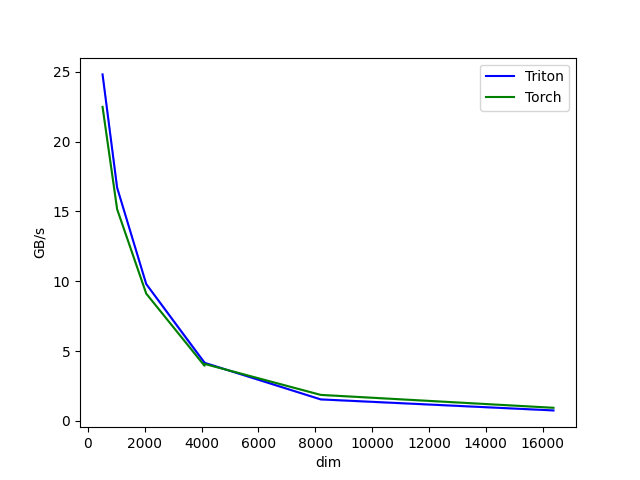
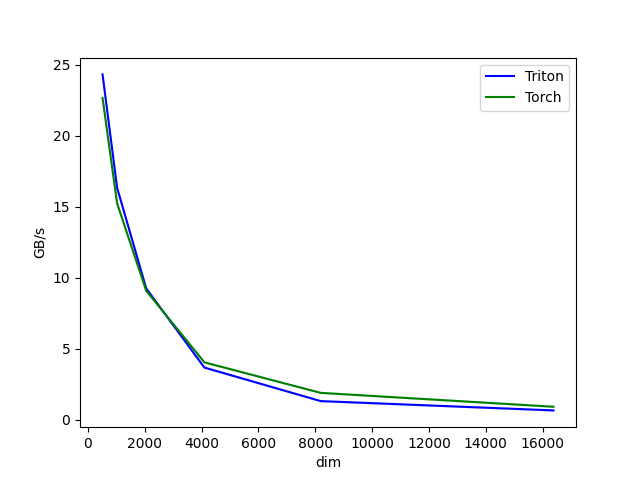
forward backward completed

diff --git a/SwiGLU.py b/SwiGLU.py
@@ -131,10 +131,11 @@ def _swiglu_forward(
     key=['M', 'N', 'K'],
 )
 @triton.jit
-def _swiglu_backward(
+def _swiglu_backward(do_ptr,
     x_ptr, dw1_ptr, dw2_ptr,
-    g1_do_ptr, g2_do_ptr,
+    g1_ptr, g2_ptr,
     M, N, K,
+    strideom, strideon,
     stridexm, stridexk,
     stridewn, stridewk,       # dw layout (N, K)
     stridegm, stridegn,       # g layout (M, N)
@@ -151,8 +152,10 @@ def _swiglu_backward(
 
     # compute pointers per tile
     x_ptrs = x_ptr + offs_m[:, None] * stridexm + offs_k[None, :] * stridexk 
-    g1_do_ptrs = g1_do_ptr + offs_m[None,:] * stridegm + offs_n[:,None] * stridegn
-    g2_do_ptrs = g2_do_ptr + offs_m[None,:] * stridegm + offs_n[:,None] * stridegn
+    do_ptrs=do_ptr + offs_m[None,:] * strideom + offs_n[:,None] * strideon
+    g1_ptrs = g1_ptr + offs_m[None,:] * stridegm + offs_n[:,None] * stridegn
+    g2_ptrs = g2_ptr + offs_m[None,:] * stridegm + offs_n[:,None] * stridegn
+    
 
     
     # accumulators
@@ -164,19 +167,22 @@ def _swiglu_backward(
         m_start = mt * BLOCK_SIZE_M
         # masks
         mask_x = (offs_m[:, None] < M-m_start) & (offs_k[None, :] < K)
-        mask_g_o = (offs_m[None,:] < M-m_start) & (offs_n[:,None] < N)
+        mask_g_do = (offs_m[None,:] < M-m_start) & (offs_n[:,None] < N)
         
         # load tiles
         x = tl.load(x_ptrs, mask=mask_x, other=0.0).to(tl.float32)
-        g1_do_t = tl.load(g1_do_ptrs, mask=mask_g_o, other=0.0).to(tl.float32)
-        g2_do_t = tl.load(g2_do_ptrs, mask=mask_g_o, other=0.0).to(tl.float32)
-        
-        dw1_acc = tl.dot(g1_do_t, x, dw1_acc)
-        dw2_acc = tl.dot(g2_do_t, x, dw2_acc)
+        g1_t = tl.load(g1_ptrs, mask=mask_g_do, other=0.0).to(tl.float32)
+        g2_t = tl.load(g2_ptrs, mask=mask_g_do, other=0.0).to(tl.float32)
+        do_t = tl.load(do_ptrs, mask=mask_g_do, other=0.0).to(tl.float32)
+
+
+        dw1_acc = tl.dot(g1_t*do_t, x, dw1_acc)
+        dw2_acc = tl.dot(g2_t*do_t, x, dw2_acc)
 
         x_ptrs=x_ptrs+BLOCK_SIZE_M*stridexm
-        g1_do_ptrs=g1_do_ptrs+BLOCK_SIZE_M*stridegm
-        g2_do_ptrs=g2_do_ptrs+BLOCK_SIZE_M*stridegm
+        g1_ptrs=g1_ptrs+BLOCK_SIZE_M*stridegm
+        g2_ptrs=g2_ptrs+BLOCK_SIZE_M*stridegm
+        do_ptrs=do_ptrs+BLOCK_SIZE_M*strideom
     
 
     # store results
@@ -187,6 +193,7 @@ def _swiglu_backward(
     tl.store(dw1_ptrs, dw1_acc, mask=mask_w)
     tl.store(dw2_ptrs, dw2_acc, mask=mask_w)
     return 
+
 
 class SwiGLUFUNC(torch.autograd.Function):
   @staticmethod
@@ -219,15 +226,14 @@ class SwiGLUFUNC(torch.autograd.Function):
     dw1=torch.empty((ctx.N, ctx.K), device=x.device, dtype=x.dtype) 
     dw2=torch.empty((ctx.N, ctx.K), device=x.device, dtype=x.dtype) 
     
-    g1_do=(do*g1).contiguous() 
-    g2_do=(do*g2).contiguous()
-    
+
     grid=lambda META: (triton.cdiv(ctx.N, META['BLOCK_SIZE_N']), triton.cdiv(ctx.K, META['BLOCK_SIZE_K']))
-    _swiglu_backward[grid](x,dw1,dw2,g1_do,g2_do,
+    _swiglu_backward[grid](do,x,dw1,dw2,g1,g2,
                            ctx.M,ctx.N,ctx.K,
+                           strideom=do.stride(0), strideon=do.stride(1),
                            stridexm=x.stride(0), stridexk=x.stride(1),
                            stridewn=dw1.stride(0), stridewk=dw1.stride(1),
-                           stridegm=g1_do.stride(0),stridegn=g1_do.stride(1)
+                           stridegm=g1.stride(0),stridegn=g1.stride(1)
                            )
     return None, dw1, dw2
 
@@ -262,25 +268,17 @@ def test(x, do, dim, hidden_dim):
     swiglu_triton.w1.weight.data.copy_(swiglu_pytorch.w1.weight.data)
     swiglu_triton.w2.weight.data.copy_(swiglu_pytorch.w2.weight.data)
     
-    assert torch.allclose(swiglu_triton.w1.weight, swiglu_pytorch.w1.weight, rtol=1e-02, atol=1e-02, equal_nan=True), "forward w1 discripency"
-    assert torch.allclose(swiglu_triton.w2.weight, swiglu_pytorch.w2.weight, rtol=1e-02, atol=1e-02, equal_nan=True), "forward w2 discripency"
-    
+
     out_triton=swiglu_triton(x)
+    torch.cuda.synchronize()
     out_torch=swiglu_pytorch(x)
     torch.cuda.synchronize()
-
-    max_diff = (out_triton - out_torch).abs().max()
-    mean_diff = (out_triton - out_torch).abs().mean()
     assert torch.allclose(out_triton,out_torch, rtol=1e-02, atol=1e-02, equal_nan=True), "output discripency"
-    
+
     out_triton.backward(do, retain_graph=True)
     torch.cuda.synchronize()
     out_torch.backward(do, retain_graph=True)
     torch.cuda.synchronize()
-    
-    max_diff = (swiglu_triton.w1.weight.grad - swiglu_pytorch.w1.weight.grad).abs().max()
-    mean_diff = (swiglu_triton.w1.weight.grad - swiglu_pytorch.w1.weight.grad).abs().mean()
-
     assert torch.allclose(swiglu_triton.w1.weight.grad, swiglu_pytorch.w1.weight.grad, rtol=1e-01, atol=1e-01, equal_nan=True), "backward w1.weight.grad discripency"
     assert torch.allclose(swiglu_triton.w2.weight.grad, swiglu_pytorch.w2.weight.grad, rtol=1e-01, atol=1e-01, equal_nan=True), "backward w2.weight.grad discripency"
     return 
@@ -334,13 +332,5 @@ if __name__ == "__main__":
     if torch.cuda.is_available():
         torch.cuda.manual_seed(seed) 
         torch.cuda.manual_seed_all(seed)
-    
-    # batch_size=16
-    # seq_len=512
-    # dim=1024
-    # hidden_dim=512
-    # x=torch.randn(batch_size*seq_len, dim, device=DEVICE, dtype=torch.float32)
-    # do=torch.randn(batch_size*seq_len, hidden_dim, device=DEVICE, dtype=torch.float32)
-    # test(x, do, dim, hidden_dim)
     
     bench_swiglu.run(save_path=".", show_plots=True, print_data=True)
